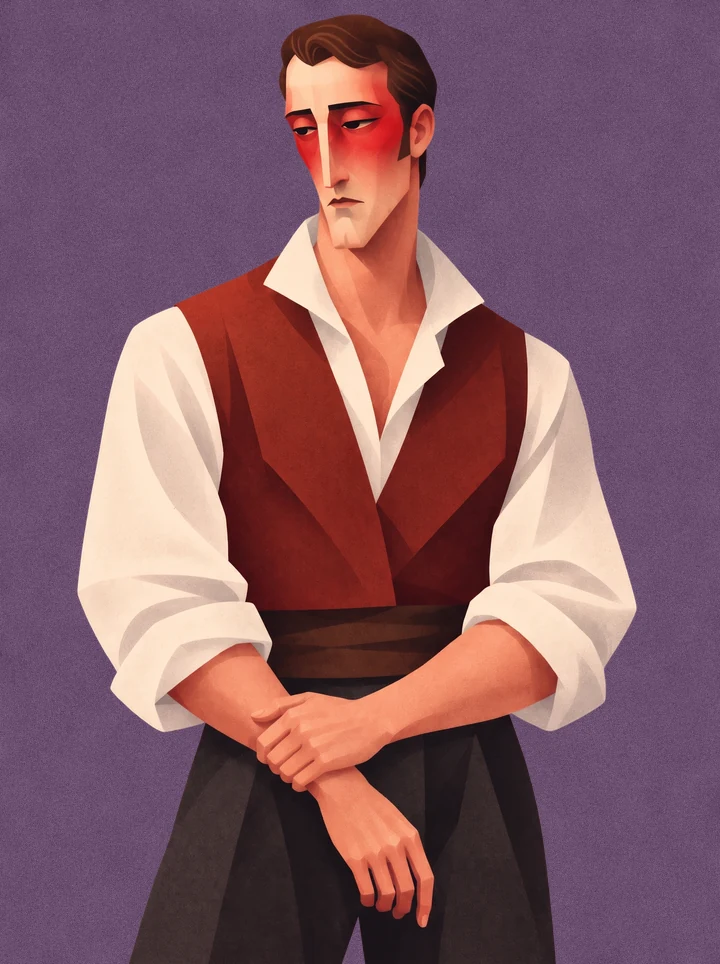
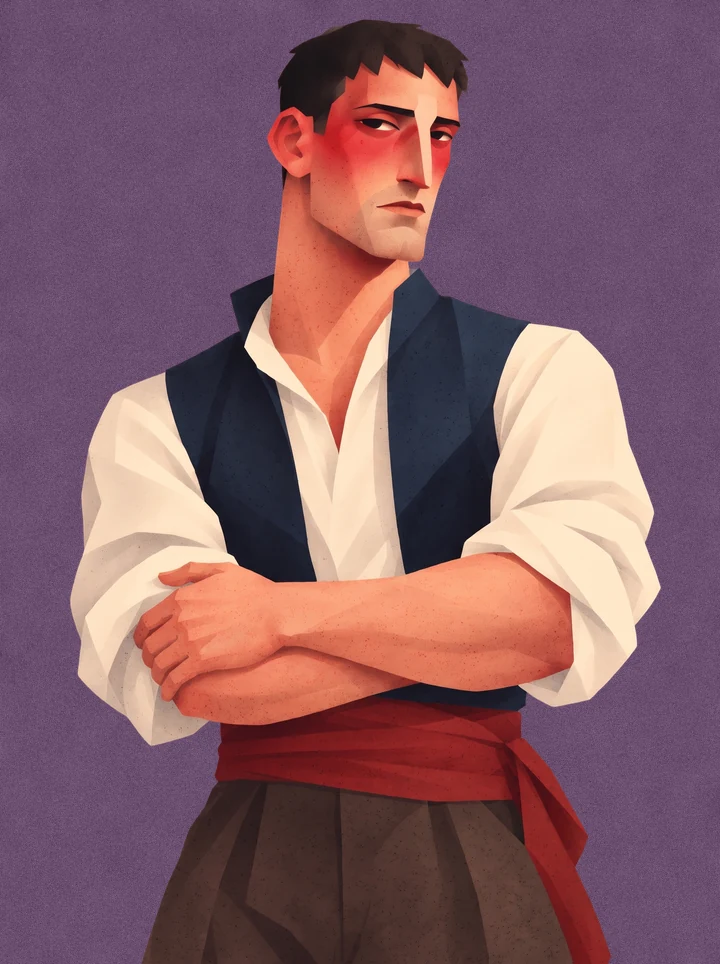
Figaro portraits: Curzio, Basilio, Antonio, Barbarina, Marcellina; new Masetto
Claude-Session: https://claude.ai/code/session_01J9nR1BmP9TjDnKqecdbpyd

diff --git a/src/standalone/opera-extra.ts b/src/standalone/opera-extra.ts
@@ -18,13 +18,18 @@ const PORTRAIT_ALT: Record<string, string> = {
   "figaro:countess": "The Countess in lilac silk with white sleeves, grey hair piled high, a white fan in her hand.",
   "figaro:count": "Count Almaviva in a plum coat and grey waistcoat with a white jabot, dark hair tied back.",
   "figaro:cherubino": "Cherubino in a mustard coat and brown breeches, light brown hair, a letter held to his chest.",
+  "figaro:marcellina": "Marcellina in a dark plum gown, grey hair pinned up, arms folded over a letter.",
+  "figaro:basilio": "Don Basilio in a long mustard coat, bald with a fringe of hair, a rolled sheet of music behind his back.",
+  "figaro:curzio": "Don Curzio in a black lawyer's gown with white bands and a grey wig, a red book under his arm.",
+  "figaro:barbarina": "Barbarina in an olive bodice, white blouse and ochre skirt, dark hair pinned up, a hand in her apron pocket.",
+  "figaro:antonio": "Antonio the gardener in an olive shirt and brown apron, grey hair, a red carnation in his hand.",
   "giovanni:dongiovanni": "Don Giovanni in a black coat over a dark red waistcoat, dark hair swept back, a hand at his chest.",
   "giovanni:leporello": "Leporello in a long brown coat and green waistcoat, a small book in his hand.",
   "giovanni:anna": "Donna Anna in a dark navy gown with white cuffs, black hair drawn back, a hand at her breast.",
   "giovanni:elvira": "Donna Elvira in a red dress under a teal cloak, auburn hair piled high, a hand at her heart.",
   "giovanni:zerlina": "Zerlina in a red bodice and white skirt, a long dark braid over her shoulder.",
   "giovanni:ottavio": "Don Ottavio in a pale blue coat and white stock, fair hair tied back, his hands clasped.",
-  "giovanni:masetto": "Masetto in a white shirt and red waistcoat, sleeves rolled up, arms crossed.",
+  "giovanni:masetto": "Masetto in a white shirt and dark blue waistcoat with a red sash, sleeves rolled up, arms crossed.",
   "giovanni:commendatore": "The Commendatore in a grey-blue coat over a white waistcoat, bald with a white beard, one hand held out.",
   "cosi:fiordiligi": "Fiordiligi in a teal bodice with white sleeves, dark hair pinned with pearls, a letter at her heart.",
   "cosi:dorabella": "Dorabella in a coral-red dress with white sleeves, auburn hair in soft waves, a folded fan in her hands.",
@@ -76,7 +81,6 @@ const COVER_ALT: Record<string, string> = {
 /** characters who are the same person in another opera, drawn once (Beaumarchais's Bartolo and Basilio) */
 const SAME_AS: Record<string, string> = {
   "figaro:bartolo": "barbiere:bartolob",
-  "figaro:basilio": "barbiere:basilio",
 };
 
 /** Portraits for the characters that have one (key: "opera:character"): a full portrait and a face crop for circles. */
